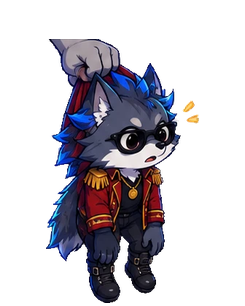
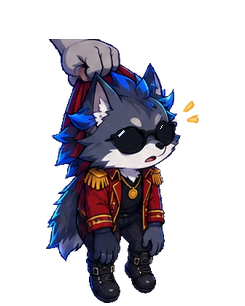
Tungarix held pose: dark sunglass lenses
The sprite sheet drew see-through lenses with eyes on the held pose; the
slicer now paints them dark with a small shine, like every other frame.

Changed region(s): [[0.4857, 0.4118, 0.5714, 0.5], [0.6286, 0.3824, 0.7143, 0.4706]]

diff --git a/scripts/slice-tungarix.py b/scripts/slice-tungarix.py
@@ -27,6 +27,10 @@ POSES = [
     ("dust1", False, True), ("dust2", False, True), ("dust3", False, True), ("guitar1", False, False), ("guitar2", False, False),
 ]
 STAND_HEIGHT = 300  # px, the standing pose in the output (150 on screen at scale 0.5)
+# The sheet drew see-through lenses on the held pose; Tungarix never shows his eyes.
+# Lens ellipses in output pixels: (centre, radii), painted dark with a small shine.
+DARK_LENSES = {"held": [((127.5, 139.5), (15.5, 12.5)), ((164, 132), (8, 11.5))]}
+SHINES = {"held": [((119, 135), (124, 130), 2), ((160, 128), (162, 125), 1)]}
 GAP = 6  # empty px that separate two poses
 MIN_POSE = 60  # narrower blocks are sparkles or dust puffs belonging to a neighbour
 
@@ -94,6 +98,21 @@ def blocks(alpha):
     return found
 
 
+def darken_lenses(im, lenses, shines):
+    px = im.load()
+    for (cx, cy), (rx, ry) in lenses:
+        for y in range(int(cy - ry) - 1, int(cy + ry) + 2):
+            for x in range(int(cx - rx) - 1, int(cx + rx) + 2):
+                e = ((x - cx) / rx) ** 2 + ((y - cy) / ry) ** 2
+                r, g, b, a = px[x, y]
+                # Inside: all lens; at the rim only the light pixels, so the frame stays.
+                if a and (e <= 0.8 or (e <= 1 and (r + g + b) / 3 > 45)):
+                    px[x, y] = (18, 20, 30, a)
+    d = ImageDraw.Draw(im)
+    for a, b, width in shines:
+        d.line([a, b], fill=(200, 210, 255, 190), width=width)
+
+
 def main():
     sheet = Image.open(SHEET).convert("RGB")
     alpha = ImageChops.invert(background_mask(sheet))
@@ -126,6 +145,8 @@ def main():
     for name, im in crops:
         canvas = Image.new("RGBA", (cw, ch), (0, 0, 0, 0))
         canvas.alpha_composite(im, ((cw - im.width) // 2, ch - 3 - im.height))  # feet on the baseline
+        if name in DARK_LENSES:
+            darken_lenses(canvas, DARK_LENSES[name], SHINES[name])
         canvas.save(OUT / f"{name}.png", optimize=True)
     print(f"{len(crops)} frames, {cw}x{ch}, in {OUT}")
 
